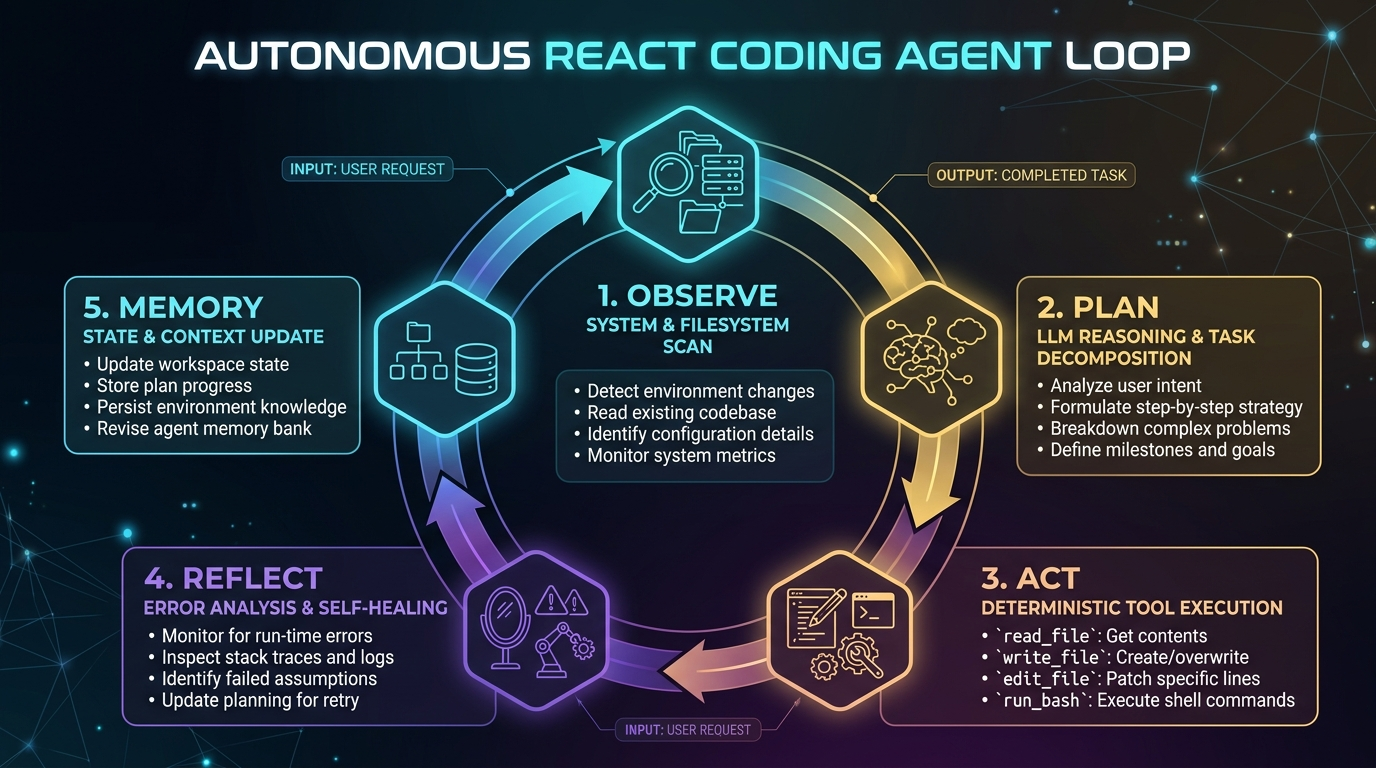
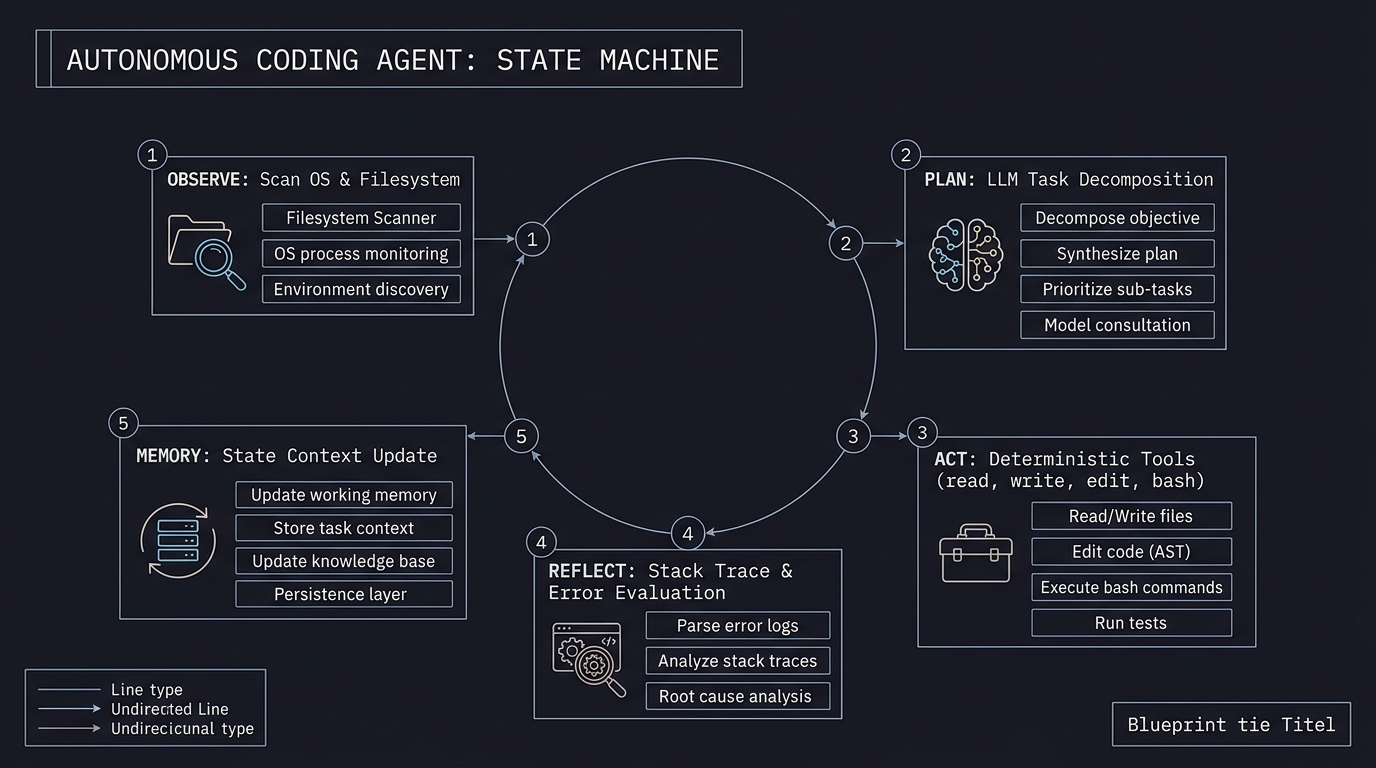
Align README structure with FastAIRag and update dry architecture diagram

diff --git a/README.md b/README.md
@@ -1,4 +1,4 @@
-# FastAIAgent 0.1.5 — Autonomous Cognitive Engine & Coding Loop for Java
+# FastAIAgent 0.1.5 — Cognitive Mind and Autonomous Coding Engine for Java
 
 [![Status](https://img.shields.io/badge/status-0.1.5-brightgreen.svg)](https://github.com/andrestubbe/FastAIAgent/releases/tag/0.1.5)
 [![License: MIT](https://img.shields.io/badge/License-MIT-yellow.svg)](https://opensource.org/licenses/MIT)
@@ -8,9 +8,47 @@
 
 ---
 
-**💡 The first truly autonomous Java Coding Agent & Cognitive Planning Layer — Observe, Plan, Act, Reflect, and Self-Heal with Zero Bloat.**
+**⚡ Autonomous ReAct coding loops and cognitive planning for Java — Decoupled execution mind orchestrating file authoring, terminal commands, and self-healing.**
 
-FastAIAgent delivers a native, lightweight cognitive loop for building autonomous AI agents in pure Java. Powered by the **5-step ReAct loop** (`Observe → Plan → Act → Reflect → Memory`), it introduces the first pure Java agent capable of self-directed code authoring, syntax verification, refactoring, and deterministic OS execution via `FastAIRuntime`.
+FastAIAgent is a **high-performance, framework-agnostic cognitive agent engine** for the JVM. It implements the formal **5-step ReAct coding loop** (`Observe → Plan → Act → Reflect → Memory`) to enable autonomous coding agents that inspect codebases, write/edit project files, run CLI tools, and correct build errors with zero framework bloat.
+
+<p align="center">
+  <img src="docs/coding_loop_diagram.jpg" alt="Autonomous Coding Agent State Machine" width="850">
+</p>
+
+---
+
+## Quick Start — Example
+
+```java
+import fastaiagent.FastAgentKernel;
+import fastairuntime.FastAIRuntime;
+import fastairuntime.tools.CommandRunnerTool;
+import fastairuntime.tools.FileEditTool;
+import fastairuntime.tools.FileReadTool;
+import fastairuntime.tools.FileSaveTool;
+
+public class Demo {
+    public static void main(String[] args) {
+        // 1. Setup deterministic OS toolchain harness
+        FastAIRuntime runtime = new FastAIRuntime();
+        runtime.register(new FileReadTool());
+        runtime.register(new FileSaveTool());
+        runtime.register(new FileEditTool());
+        runtime.register(new CommandRunnerTool());
+
+        // 2. Initialize Autonomous Coding Kernel
+        FastAgentKernel kernel = new FastAgentKernel(runtime,
+            () -> runtime.execute(new fastairuntime.FastCommand("file.read", java.util.Map.of("path", "src/Main.java"))),
+            (goal, obs, plan) -> /* AI / LLM reasoning planner */,
+            (plan, result) -> result.success() ? "OK" : "Error: " + result.message()
+        );
+
+        // 3. Execute goal-driven ReAct loop
+        kernel.loop("Create, compile, and fix Calculator.java", 10);
+    }
+}
+```
 
 ---
 
@@ -18,81 +56,85 @@ FastAIAgent delivers a native, lightweight cognitive loop for building autonomou
 
 - [Why FastAIAgent?](#why-fastaiagent)
 - [Key Features](#key-features)
-- [The Autonomous Coding Loop](#the-autonomous-coding-loop)
-- [Quick Start](#quick-start)
-- [Installation](#installation)
-- [API Reference](#api-reference)
+- [Architecture Overview](#architecture-overview)
+- [API Quick Reference](#api-quick-reference)
 - [Examples & Demos](#examples--demos)
-- [Architecture](#architecture)
-- [Performance & Comparison](#performance--comparison)
-- [Related Projects](#related-projects)
+- [Installation](#installation)
+- [Documentation](#documentation)
+- [Platform Support](#platform-support)
 - [License](#license)
+- [Related Projects](#related-projects)
 
 ---
 
 ## Why FastAIAgent?
 
-Most agent frameworks in Python and Java are bloated, unpredictable, and tightly coupled with heavy cloud SDKs.
+Traditional agent frameworks in Python (`LangChain`, `CrewAI`, `AutoGen`) and Java (`LangChain4j`) are bloated, slow, and impose heavy framework locks. `FastAIAgent` delivers:
 
-FastAIAgent solves this with:
-- **Autonomous Coding Loop**: First Java-native ReAct kernel that creates, modifies, and patches project files autonomously.
-- **Decoupled Architecture**: Clean separation between **Mind** (`FastAIAgent` / LLM reasoning) and **Body** (`FastAIRuntime` / OS-level deterministic execution).
-- **Single Source of Truth**: Full plan rewriting prevents task drift and keeps multi-turn workflows stable.
-- **Zero Framework Bloat**: No LangChain, no Spring AI, pure Java 17+ with sub-millisecond execution overhead.
+- **Autonomous Coding Agent Loop** — Self-directed file inspection, precise line editing (`file.edit`), shell execution, and compile verification.
+- **Strict Mind-Body Separation** — Thought & planning (`FastAIAgent`) is completely decoupled from deterministic OS execution (`FastAIRuntime`).
+- **Single Source of Truth** — Full plan rewriting prevents drift across multi-step execution turns.
+- **Zero Framework Bloat** — Pure Java 17+ with sub-millisecond execution overhead and minimal dependencies.
 
 ---
 
 ## Key Features
 
-- **💻 Native Java Coding Agent**: Autonomous code generation, file tree discovery, precise string replacement (`file.edit`), and compilation.
-- **🧠 5-Stage Cognitive Loop**: Formalized `Observe → Plan → Act → Reflect → Memory` state machine.
-- **📡 FastAIEventBus Integration**: Complete observability, event subscription, and real-time step streaming.
-- **⚡ Deterministic Tool Execution**: Direct hardware-level file, terminal, keyboard, mouse, and process control via `FastAIRuntime`.
-- **💾 Stateful Memory**: Seamless integration with `FastAIMemory` and `FastAIBot`.
+- **💻 Autonomous Code Authoring & Patching** — Create, inspect, patch (`file.edit`), and compile Java source files.
+- **🧠 5-Stage Cognitive Loop** — Native state machine for `Observe → Plan → Act → Reflect → Memory`.
+- **📡 FastAIEventBus Observability** — Real-time event subscription for step logs, token traces, and tool telemetry.
+- **⚡ Deterministic OS Execution** — Direct file, keyboard, mouse, process, and CLI management via `FastAIRuntime`.
+- **💾 Stateful Conversation Memory** — Native integration with `FastAIMemory` and `FastAIBot`.
 
 ---
 
-## The Autonomous Coding Loop
+## Architecture Overview
 
-<p align="center">
-  <img src="docs/coding_loop_diagram.jpg" alt="Autonomous ReAct Coding Agent Loop" width="850">
-</p>
+**[FastAIAgent](https://github.com/andrestubbe/FastAIAgent) (The Mind)**  
+Orchestrates the cognitive ReAct loop, task planning, and reflection over results.
+
+**[FastAIRuntime](https://github.com/andrestubbe/FastAIRuntime) (The Body & Harness)**  
+Provides deterministic OS-level tool execution (`file.read`, `file.save`, `file.edit`, `cmd.run`, UIA, keyboard, mouse) and security gates.
+
+**[FastAIMemory](https://github.com/andrestubbe/FastAIMemory) (The Memory)**  
+Maintains structured conversation history, context windows, and episodic state.
+
+**[FastAI](https://github.com/andrestubbe/FastAI) (The LLM Client)**  
+Powers streaming model inference with local and cloud models.
 
 ---
 
-## Quick Start
+## API Quick Reference
 
-### Autonomous Coding Loop Example
+| Class / Method | Return Type | Description |
+|---|---|---|
+| `FastAgentKernel(runtime, obs, planner, reflector)` | `FastAgentKernel` | Constructs the 5-step ReAct coding agent kernel. |
+| `kernel.loop(goal, maxCycles)` | `void` | Executes the Observe-Plan-Act-Reflect cycle until the goal is met. |
+| `FastAIEventBus.getInstance()` | `FastAIEventBus` | Accesses the global agent event dispatcher for observability. |
+| `FastAIPromptBuilder.buildSystemPrompt(runtime)` | `String` | Generates a tool-definition system prompt from registered tools. |
+| `FastAIAgent(bot, runtime, logger)` | `FastAIAgent` | Standard conversational agent with tool-call parsing and execution. |
 
-```java
-import fastaiagent.FastAgentKernel;
-import fastairuntime.FastAIRuntime;
-import fastairuntime.tools.*;
+---
 
-public class QuickStart {
-    public static void main(String[] args) {
-        FastAIRuntime runtime = new FastAIRuntime();
-        runtime.register(new FileReadTool());
-        runtime.register(new FileSaveTool());
-        runtime.register(new FileEditTool());
-        runtime.register(new CommandRunnerTool());
+## Examples & Demos
 
-        FastAgentKernel kernel = new FastAgentKernel(runtime,
-            () -> runtime.execute(new fastairuntime.FastCommand("dir.list", java.util.Map.of("path", "."))),
-            (goal, obs, plan) -> /* AI or State-Machine Planner */,
-            (plan, result) -> result.success() ? "OK" : "Failed: " + result.message()
-        );
+`FastAIAgent` provides 34+ runnable standalone demos in `examples/Demo/`:
 
-        kernel.loop("Create and test Calculator.java", 10);
-    }
-}
-```
+| Script | Class | Demonstrates |
+|---|---|---|
+| `run-34-coding-agent-loop-demo.bat` | `CodingAgentLoopDemo` | **Autonomous Coding Agent**: File creation, inspection, refactoring (`file.edit`) |
+| `run-34a-observe-sub-demo.bat` | `CodingObserveSubDemo` | Phase 1: Environment & Workspace Observation |
+| `run-34b-plan-act-sub-demo.bat` | `CodingPlanActSubDemo` | Phase 2 & 3: Plan Formulation & Deterministic Execution |
+| `run-34c-reflect-sub-demo.bat` | `CodingReflectSubDemo` | Phase 4: Self-Reflection & Error Recovery |
+| `run-01-planning-agent-demo.bat` | `PlanningAgentDemo` | Multi-step planning and Notepad execution |
+| `run-05-file-manipulation-agent-demo.bat` | `FileManipulationAgentDemo` | File system operations |
+| `run-16-multi-agent-orchestrator-demo.bat` | `MultiAgentOrchestratorDemo` | Multi-agent coordination |
 
 ---
 
 ## Installation
 
-### Maven (JitPack)
+### Option 1: Maven (Recommended)
 
 ```xml
 <repositories>
@@ -116,33 +158,44 @@ public class QuickStart {
 </dependencies>
 ```
 
----
+### Option 2: Gradle (via JitPack)
 
-## Examples & Demos
+```groovy
+repositories {
+    maven { url 'https://jitpack.io' }
+}
 
-FastAIAgent comes with 34+ comprehensive demos in `examples/Demo/`:
-
-| Script | Class | Description |
-|---|---|---|
-| `run-34-coding-agent-loop-demo.bat` | `CodingAgentLoopDemo` | **Full Autonomous Coding Agent**: Creates, inspects, and patches Java source code |
-| `run-34a-observe-sub-demo.bat` | `CodingObserveSubDemo` | Phase 1: Environment & Workspace Observation |
-| `run-34b-plan-act-sub-demo.bat` | `CodingPlanActSubDemo` | Phase 2 & 3: Plan Formulation & Tool Execution |
-| `run-34c-reflect-sub-demo.bat` | `CodingReflectSubDemo` | Phase 4: Self-Reflection & Error Recovery |
-| `run-01-planning-agent-demo.bat` | `PlanningAgentDemo` | Single-step planning and Notepad execution |
-| `run-05-file-manipulation-agent-demo.bat` | `FileManipulationAgentDemo` | File system operations |
-| `run-16-multi-agent-orchestrator-demo.bat` | `MultiAgentOrchestratorDemo` | Multi-agent coordination |
+dependencies {
+    implementation 'com.github.andrestubbe:FastAIAgent:0.1.5'
+    implementation 'com.github.andrestubbe:FastAIRuntime:0.1.0'
+}
+```
 
 ---
 
-## Performance & Comparison
+## Documentation
 
-| Feature / Metric | Python Coding Agents | LangChain4j Agents | FastAIAgent |
-|---|---|---|---|
-| **JVM Native** | ❌ No | ⚠ Framework-heavy |  **Pure Java 17+** |
-| **Startup Overhead** | ~2.5s | ~1.8s | **< 20ms** |
-| **OS Toolchain Execution** | External wrappers | Generic Java I/O |  **Native `FastAIRuntime`** |
-| **Drift Prevention** | Incomplete | None |  **Full-Plan Regeneration** |
-| **Dependencies** | 20+ PIP packages | 15+ JARs |  **Minimal FastJava Suite** |
+* **[REFERENCE.md](docs/REFERENCE.md)**: Core API reference manual.
+* **[PHILOSOPHY.md](docs/PHILOSOPHY.md)**: ReAct coding loop and decoupled architecture design.
+* **[COMPILE.md](docs/COMPILE.md)**: Maven build instructions.
+* **[CHANGELOG.md](docs/CHANGELOG.md)**: Project history.
+* **[ROADMAP.md](docs/ROADMAP.md)**: Future development goals.
+
+---
+
+## Platform Support
+
+| Platform | Status |
+|---|---|
+| Windows 10/11 (x64) | ✅ Fully Supported |
+| Linux | 🚧 Planned |
+| macOS | 🚧 Planned |
+
+---
+
+## License
+
+MIT License — See [LICENSE](LICENSE) file for details.
 
 ---
 
@@ -150,12 +203,12 @@ FastAIAgent comes with 34+ comprehensive demos in `examples/Demo/`:
 
 - [FastAIRuntime](https://github.com/andrestubbe/FastAIRuntime) — Deterministic tool execution engine and OS harness
 - [FastAI](https://github.com/andrestubbe/FastAI) — Unified AI client interface for Java
-- [FastAIMemory](https://github.com/andrestubbe/FastAIMemory) — Conversation history and memory formatters
-- [FastAIBot](https://github.com/andrestubbe/FastAIBot) — Real-time conversational bot orchestrator
-- [FastCore](https://github.com/andrestubbe/FastCore) — Unified JNI loader and platform abstraction
+- [FastAIMemory](https://github.com/andrestubbe/FastAIMemory) — Unified conversation memory and formatters
+- [FastAIRag](https://github.com/andrestubbe/FastAIRag) — Unified RAG pipeline client for Java
+- [FastAIVectorDB](https://github.com/andrestubbe/FastAIVectorDB) — High-speed native C++ SIMD vector database
+- [FastAIBot](https://github.com/andrestubbe/FastAIBot) — Autonomous conversational AI bot engine
+- [FastCore](https://github.com/andrestubbe/FastCore) — Native JNI loader for FastJava libraries
 
 ---
 
-## License
-
-MIT License. See [LICENSE](LICENSE) for details.
+**Part of the FastJava Ecosystem** — *Making the JVM faster. Small package. Maximum speed. Zero bloat. 🚀📋*
